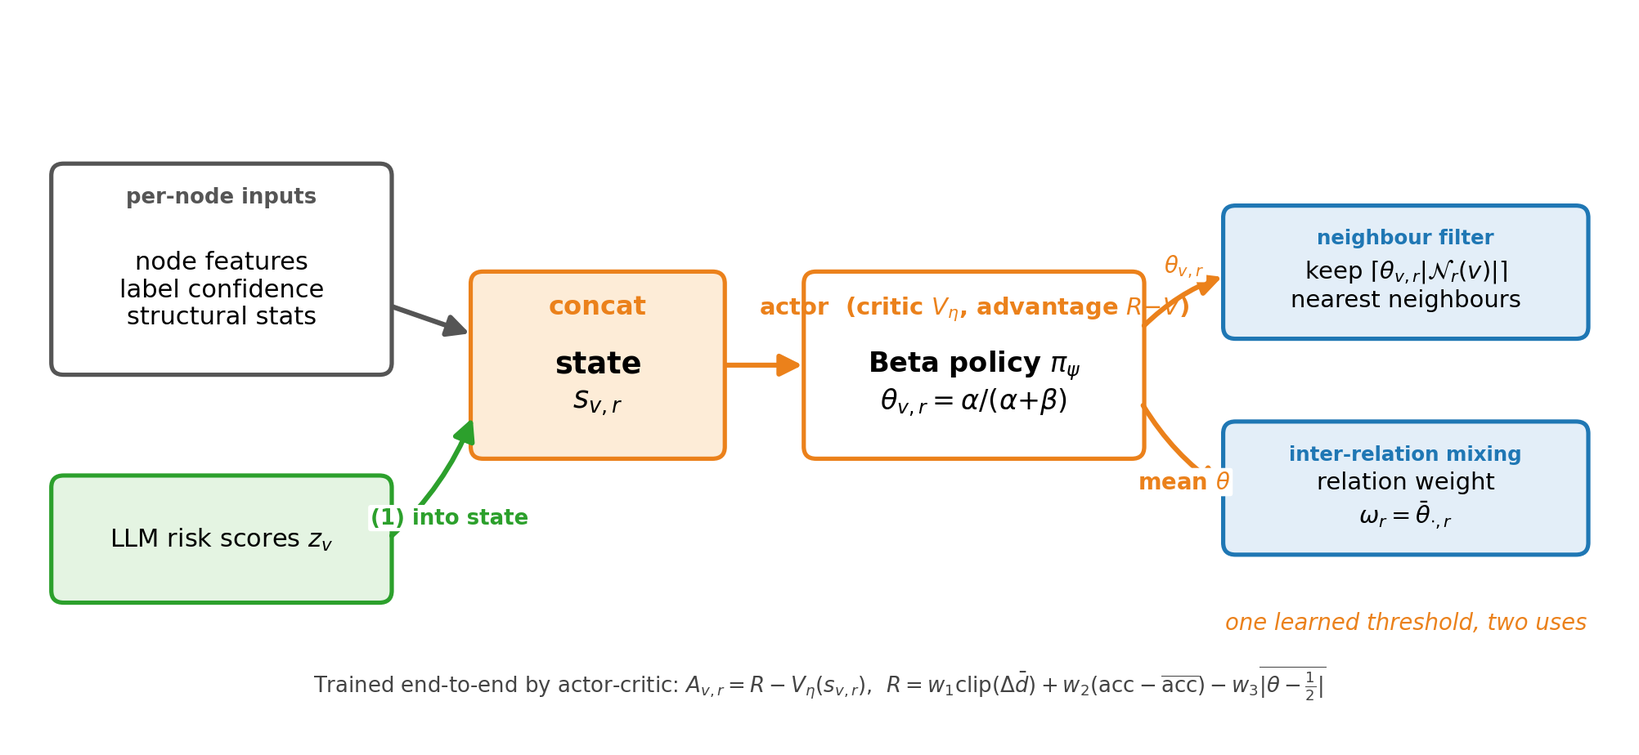
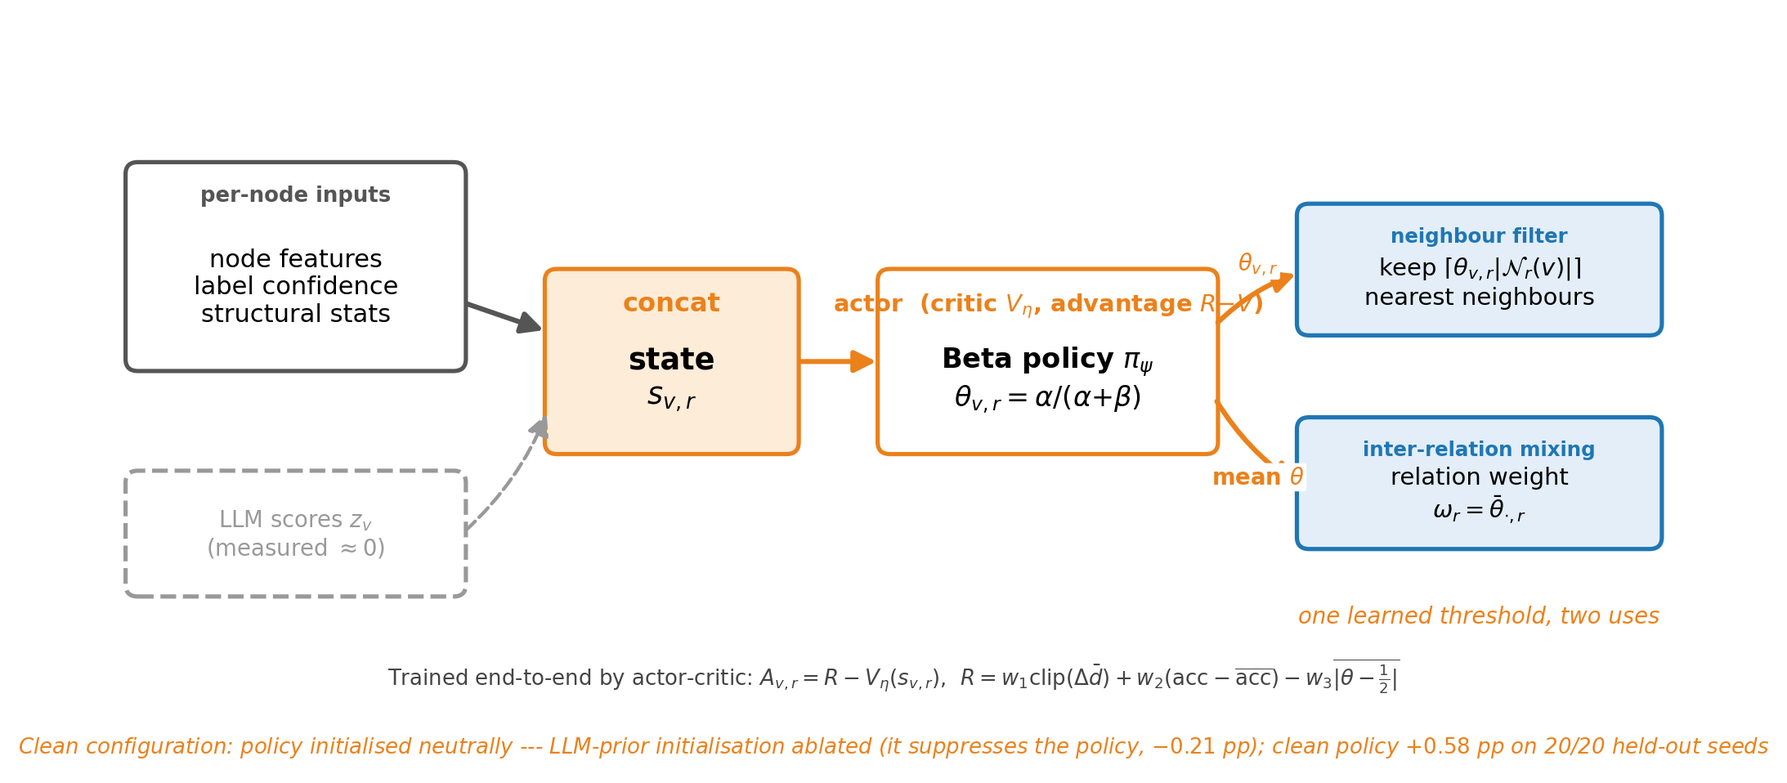
Regenerate architecture figures to final framing; add result plots
Architecture figures now match the paper's final story: pillar arrows
annotated with held-out-confirmed deltas (+1.97 semantic, +0.58 adaptive,
+2.70 full), scorer marked LLM-or-heuristic, and both ablated couplings
(LLM-prior init, scores-in-state) drawn dashed/annotated as measured-null.

Two new Results figures generated from the saved experiment JSONs:
- results_ablation.png: per-seed slope plot of the n=20 held-out cube
  (R1 -> R2' -> R3 -> R4'), deltas computed from data, 20/20 consistency visible
- results_doseresponse.png: text6 gain vs backbone strength across 9
  configurations with significance encoding and trend line

main.tex: figure captions updated to final framing; both plots inserted with
prose references (fig:ablation-seeds, fig:doseresponse).

Changed region(s): [[0.0, 0.1818, 0.99, 0.9697]]

diff --git a/papers/my_paper/extracted/main.tex b/papers/my_paper/extracted/main.tex
@@ -20,9 +20,9 @@
 %\correspondingauthor{bob.jones@university.edu}
 
 \setabstract{%
-Graph neural networks have become a standard substrate for fraud detection on multi-relation review graphs, but sophisticated fraudsters deliberately evade neighbourhood aggregation by camouflaging both node attributes and graph connections. Existing defences address the problem only partially: early reinforcement-learning approaches such as CARE-GNN employ heuristic bandits with limited per-node adaptability and no mechanism for external signal, while recent GNN-LLM integrations augment node features but lack a learned policy for dynamic relation weighting. To our knowledge, no prior work unifies structural, adaptive, and semantic reasoning in a single framework.
-We propose a three-pillar framework that integrates these three modes of reasoning. The structural pillar is a multi-relation CARE-GNN backbone. The adaptive pillar is the Camouflage-Aware Policy Network (CAPN), an actor-critic policy that replaces CARE-GNN's heuristic bandit with per-node, per-relation filtering thresholds learned from a rich state vector. The semantic pillar is an LLM component that injects structural-reasoning scores into the policy state and fraud-specific textual risk scores into the node features through a gated residual module that preserves feature dimensionality. The three pillars are trained under a single joint objective.
-On YelpChi, every headline claim is confirmed on twenty held-out seeds never used in tuning. The full framework outperforms its structural base by $+2.70$~pp (AUC $0.7909 \pm 0.0038$ vs.\ $0.7639 \pm 0.0016$; positive on all twenty seeds, $p<10^{-16}$). The pillar-wise attribution is complete and each pillar earns its place: the semantic pillar contributes $+1.97$~pp ($20/20$, $p<10^{-12}$), the adaptive pillar $+0.58$~pp ($20/20$, $p<10^{-4}$), and---critically---the two \emph{compose}: the learned policy adds a further $+0.74$~pp on top of the semantic signal ($19/20$, $p<10^{-6}$). Reaching this attribution required correcting our own design: the LLM-derived prior initialisation, intended as semantic-to-adaptive synergy, in fact \emph{suppresses} the policy, and only after de-confounding does the adaptive pillar's contribution emerge. On a high-variance host the adaptive effect is statistically undetectable ($+0.41$~pp, $p=0.56$ at thirty seeds on GraphConsis), a detectability boundary we report transparently. Two further studies establish the framework's generality: its semantic signal transfers to eight backbones at the identical label-scarce split, significantly improving six---including the benchmark-leading XGB-Graph (AUC $0.9106\!\to\!0.9177$)---and the whole framework attaches unchanged, as a backbone-agnostic wrapper, to GraphConsis, where its semantic pathway again delivers the largest gain ($+4.16$~pp) together with a $3.5\times$ variance reduction. Finally, we show the semantic signal's value lies in its six fraud-specific score dimensions rather than in the model that computes them: a zero-cost heuristic scorer is statistically indistinguishable from the LLM on every graph backbone, making the pillar deployable without any API dependence.
+  Graph neural networks have become a standard substrate for fraud detection on multi-relation review graphs, but sophisticated fraudsters deliberately evade neighbourhood aggregation by camouflaging both node attributes and graph connections. Existing defences address the problem only partially: early reinforcement-learning approaches such as CARE-GNN employ heuristic bandits with limited per-node adaptability and no mechanism for external signal, while recent GNN-LLM integrations augment node features but lack a learned policy for dynamic relation weighting. To our knowledge, no prior work unifies structural, adaptive, and semantic reasoning in a single framework.
+  We propose a three-pillar framework that integrates these three modes of reasoning. The structural pillar is a multi-relation CARE-GNN backbone. The adaptive pillar is the Camouflage-Aware Policy Network (CAPN), an actor-critic policy that replaces CARE-GNN's heuristic bandit with per-node, per-relation filtering thresholds learned from a rich state vector. The semantic pillar is an LLM component that injects structural-reasoning scores into the policy state and fraud-specific textual risk scores into the node features through a gated residual module that preserves feature dimensionality. The three pillars are trained under a single joint objective.
+  On YelpChi, every headline claim is confirmed on twenty held-out seeds never used in tuning. The full framework outperforms its structural base by $+2.70$~pp (AUC $0.7909 \pm 0.0038$ vs.\ $0.7639 \pm 0.0016$; positive on all twenty seeds, $p<10^{-16}$). The pillar-wise attribution is complete and each pillar earns its place: the semantic pillar contributes $+1.97$~pp ($20/20$, $p<10^{-12}$), the adaptive pillar $+0.58$~pp ($20/20$, $p<10^{-4}$), and---critically---the two \emph{compose}: the learned policy adds a further $+0.74$~pp on top of the semantic signal ($19/20$, $p<10^{-6}$). Reaching this attribution required correcting our own design: the LLM-derived prior initialisation, intended as semantic-to-adaptive synergy, in fact \emph{suppresses} the policy, and only after de-confounding does the adaptive pillar's contribution emerge. On a high-variance host the adaptive effect is statistically undetectable ($+0.41$~pp, $p=0.56$ at thirty seeds on GraphConsis), a detectability boundary we report transparently. Two further studies establish the framework's generality: its semantic signal transfers to eight backbones at the identical label-scarce split, significantly improving six---including the benchmark-leading XGB-Graph (AUC $0.9106\!\to\!0.9177$)---and the whole framework attaches unchanged, as a backbone-agnostic wrapper, to GraphConsis, where its semantic pathway again delivers the largest gain ($+4.16$~pp) together with a $3.5\times$ variance reduction. Finally, we show the semantic signal's value lies in its six fraud-specific score dimensions rather than in the model that computes them: a zero-cost heuristic scorer is statistically indistinguishable from the LLM on every graph backbone, making the pillar deployable without any API dependence.
 }
 
 \keywords{Graph neural networks; Fraud detection; Reinforcement learning; Large language models; Multi-relation graphs}
@@ -200,11 +200,16 @@ pillars connect; the rest of this section takes them one at a time.
 \begin{figure}[t]
 \centering
 \includegraphics[width=\linewidth]{architecture}
-\caption{The three-pillar framework. A multi-relation CARE-GNN backbone
-(\emph{structural}) is filtered by CAPN's per-node, per-relation thresholds
-(\emph{adaptive}); a cached large language model supplies fraud-risk scores that
-enter through two channels---into the policy state, and, as a gated residual,
-into the node features (\emph{semantic}).}
+\caption{The three-pillar framework, annotated with each pathway's held-out
+contribution (Section~\ref{sec:results}). A multi-relation CARE-GNN backbone
+(\emph{structural}) is filtered by the clean, neutrally-initialised CAPN policy
+(\emph{adaptive}, $+0.58$~pp); six cached fraud-specific text scores---from an
+LLM \emph{or} a zero-cost heuristic scorer, which perform indistinguishably on
+graph backbones---enter as a gated residual into the node features
+(\emph{semantic}, $+1.97$~pp). The dashed scores-to-policy-state channel and
+the LLM-prior initialisation are part of the original design but are measured
+to contribute nothing and to suppress the policy, respectively; the reported
+framework ablates both.}
 \label{fig:arch}
 \end{figure}
 
@@ -270,14 +275,17 @@ rather than once per relation (Figure~\ref{fig:capn}).
 \begin{figure}[t]
 \centering
 \includegraphics[width=\linewidth]{architecture_capn}
-\caption{The CAPN mechanism. A per-node state $s_{v,r}$---node features,
-label-predictor confidence, structural statistics, and the LLM risk scores
-$z_v$---is mapped by a per-relation Beta policy to a single threshold
+\caption{The CAPN mechanism (clean configuration). A per-node state
+$s_{v,r}$---node features, label-predictor confidence, and structural
+statistics---is mapped by a per-relation Beta policy to a single threshold
 $\theta_{v,r}$, trained end-to-end with an actor--critic objective. That one
 threshold is then used twice: to keep the
 $\lceil\theta_{v,r}|\mathcal{N}_r(v)|\rceil$ nearest neighbours, and, through its
 per-relation mean, to set the relation's weight $\omega_r$ in the
-inter-relation aggregation.}
+inter-relation aggregation. The optional LLM scores $z_v$ in the state (dashed)
+measure $\approx 0$ contribution, and the policy is initialised neutrally: the
+LLM-prior initialisation of our original design suppresses it
+(Section~\ref{sec:ablation}).}
 \label{fig:capn}
 \end{figure}
 
@@ -416,7 +424,21 @@ $p<10^{-16}$). Critically, the pillars \emph{compose}: on top of the semantic
 signal the learned policy adds a further $+0.74$~pp ($19/20$, $p<10^{-6}$), and
 on top of the policy the semantic signal adds $+2.12$~pp ($20/20$,
 $p<10^{-15}$). Every pillar, and both stacking directions, is individually
-significant under held-out evaluation.
+significant under held-out evaluation. Figure~\ref{fig:ablation-seeds} shows
+the per-seed picture behind those averages: all twenty held-out seeds rise
+almost in lockstep as the pillars are added, which is why the paired tests are
+so decisive despite the modest absolute deltas.
+
+\begin{figure}[t]
+\centering
+\includegraphics[width=\linewidth]{results_ablation}
+\caption{The held-out ablation, seed by seed. Each grey line is one of the
+twenty held-out seeds (100--119) evaluated under all four clean
+configurations; the bold line is the mean. Boxes give the consecutive paired
+deltas with the number of seeds improved. The near-parallel rise of every seed
+is the visual form of the paired $t$-tests in Table~\ref{tab:framework}.}
+\label{fig:ablation-seeds}
+\end{figure}
 
 \begin{table}[t]
 \centering
@@ -547,10 +569,26 @@ would expect once a high-capacity model already extracts most of what the raw
 features offer. The clearest trend is a dose--response: the weaker the backbone,
 the larger the lift (logistic regression $+2.29$, BWGNN-Homo $+1.66$) and the
 stronger the backbone, the smaller but still-significant it becomes
-(BWGNN-Hetero $+0.62$). The framework's semantic pillar is therefore not an
-architecture-bound component but a portable source of fraud signal the
-behavioural features do not already contain---evidence that the framework's
-strongest pathway generalises to any detector a practitioner already runs.
+(BWGNN-Hetero $+0.62$). Figure~\ref{fig:doseresponse} plots this relationship
+across all nine backbone configurations: the gain declines by roughly
+$1.3$~pp for every $+0.1$ of backbone AUC, yet remains positive---and usually
+significant---even at the strongest backbone we have. The framework's semantic
+pillar is therefore not an architecture-bound component but a portable source
+of fraud signal the behavioural features do not already contain---evidence
+that the framework's strongest pathway generalises to any detector a
+practitioner already runs.
+
+\begin{figure}[t]
+\centering
+\includegraphics[width=\linewidth]{results_doseresponse}
+\caption{Dose--response of the semantic signal. Each point is one backbone at
+the identical frozen split: horizontal position is its AUC \emph{without}
+text6, vertical position the AUC gain from adding text6 (filled = significant).
+The signal helps most where the backbone is weakest and stays positive
+everywhere; GraphConsis's large but non-significant point reflects that
+backbone's high seed variance (Section~\ref{sec:wrapper}).}
+\label{fig:doseresponse}
+\end{figure}
 
 One might ask whether the gain belongs to our gated injection
 (Eq.~\eqref{eq:gate}) or simply to the signal. On BWGNN-Hetero we compared both

diff --git a/papers/my_paper/make_architecture.py b/papers/my_paper/make_architecture.py
@@ -1,25 +1,26 @@
-"""Generate the paper's figures:
-  architecture.png       -- Fig 1, clean high-level 3-pillar overview
-  architecture_capn.png  -- Fig 2, CAPN mechanism breakdown
+"""Generate the paper's architecture figures (final framing):
+  architecture.png       -- Fig 1, 3-pillar overview + held-out-confirmed deltas
+  architecture_capn.png  -- Fig 2, CAPN mechanism (clean config: neutral init,
+                            z_v channel marked as measured-null)
 
     python papers/my_paper/make_architecture.py
 """
 from pathlib import Path
 
 import matplotlib.pyplot as plt
-from matplotlib.patches import FancyArrowPatch, FancyBboxPatch, Rectangle
+from matplotlib.patches import FancyArrowPatch, FancyBboxPatch
 
 DIR = Path(__file__).resolve().parent / "extracted"
 C_GNN, C_RL, C_LLM = "#1F77B4", "#EB811B", "#2CA02C"
 BG_GNN, BG_RL, BG_LLM = "#E3EEF8", "#FDECD7", "#E4F4E2"
-C_IN, C_OUT = "#555555", "#2B3A55"
+C_IN, C_OUT, C_NULL = "#555555", "#2B3A55", "#999999"
 
 
 def box(ax, x, y, w, h, text, *, edge, face="white", fs=11, bold=False,
-        header=None, tc="black"):
+        header=None, tc="black", ls="-"):
     ax.add_patch(FancyBboxPatch((x, y), w, h,
                  boxstyle="round,pad=0.03,rounding_size=0.10",
-                 lw=1.7, edgecolor=edge, facecolor=face))
+                 lw=1.7, edgecolor=edge, facecolor=face, linestyle=ls))
     ty = y + h / 2
     if header:
         ax.text(x + w / 2, y + h - 0.16, header, ha="center", va="top",
@@ -30,9 +31,9 @@ def box(ax, x, y, w, h, text, *, edge, face="white", fs=11, bold=False,
 
 
 def arrow(ax, x1, y1, x2, y2, *, color, lw=2.0, rad=0.0, label=None,
-          off=(0, 0.28), lc=None, fs=9):
+          off=(0, 0.28), lc=None, fs=9, ls="-"):
     ax.add_patch(FancyArrowPatch((x1, y1), (x2, y2), arrowstyle="-|>",
-                 mutation_scale=18, lw=lw, color=color,
+                 mutation_scale=18, lw=lw, color=color, linestyle=ls,
                  connectionstyle=f"arc3,rad={rad}"))
     if label:
         ax.text((x1 + x2) / 2 + off[0], (y1 + y2) / 2 + off[1], label,
@@ -43,10 +44,10 @@ def arrow(ax, x1, y1, x2, y2, *, color, lw=2.0, rad=0.0, label=None,
 
 
 # ====================================================================
-# FIG 1 — high-level overview (no crossing arrows)
+# FIG 1 — high-level overview, annotated with held-out-confirmed deltas
 # ====================================================================
-fig, ax = plt.subplots(figsize=(10.5, 5.6))
-ax.set_xlim(0, 11); ax.set_ylim(0, 6); ax.axis("off")
+fig, ax = plt.subplots(figsize=(10.5, 6.2))
+ax.set_xlim(0, 11); ax.set_ylim(-0.5, 6.6); ax.axis("off")
 
 # main horizontal pipeline
 box(ax, 0.35, 2.45, 2.45, 1.1, "Multi-relation\nreview graph", edge=C_IN, fs=11)
@@ -57,43 +58,62 @@ box(ax, 8.25, 2.45, 2.4, 1.1, "Fraud probability\n$\\hat{y}_v$",
 arrow(ax, 2.80, 3.0, 3.85, 3.0, color=C_IN)
 arrow(ax, 7.20, 3.0, 8.25, 3.0, color=C_OUT)
 
-# semantic pillar on top -> straight down into backbone
-box(ax, 3.55, 4.55, 3.95, 1.1,
-    "structural risk $+$ textual risk scores", edge=C_LLM, face=BG_LLM, fs=10.5,
-    header="Semantic pillar  (LLM, cached)")
-arrow(ax, 5.525, 4.55, 5.525, 3.70, color=C_LLM, lw=2.2,
-      label="scores $\\to$ policy state $+$ node features", off=(0, 0.0),
+# semantic pillar on top -> gated residual into node features (the live channel)
+box(ax, 3.30, 4.95, 4.45, 1.25,
+    "six fraud-specific text scores\n(LLM \\emph{or} zero-cost heuristic scorer)".replace("\\emph{or}", "or"),
+    edge=C_LLM, face=BG_LLM, fs=10.5,
+    header="Semantic pillar  (cached, scorer-agnostic)")
+arrow(ax, 5.525, 4.95, 5.525, 3.70, color=C_LLM, lw=2.2,
+      label="gated residual $\\to$ node features   ($+1.97$ pp)", off=(0, 0.0),
       fs=9)
 
-# adaptive pillar on bottom -> straight up into backbone
-box(ax, 3.55, 0.35, 3.95, 1.1, "actor-critic filtering policy",
+# adaptive pillar on bottom -> per-node thresholds (clean, neutral init)
+box(ax, 3.30, 0.35, 4.45, 1.25, "actor-critic filtering policy\n(neutral init)",
     edge=C_RL, face=BG_RL, fs=10.5, header="Adaptive pillar  (CAPN)")
-arrow(ax, 5.525, 1.45, 5.525, 2.30, color=C_RL, lw=2.2,
-      label="per-node, per-relation thresholds", off=(0, 0.0), fs=9)
+arrow(ax, 5.525, 1.60, 5.525, 2.30, color=C_RL, lw=2.2,
+      label="per-node, per-relation thresholds   ($+0.58$ pp)", off=(0, 0.0),
+      fs=9)
+
+# ablated coupling: z_v -> policy state (measured ~0), dashed, routed left of
+# the backbone but right of the input box (rad kept small to avoid overlap)
+arrow(ax, 3.30, 5.35, 3.30, 1.25, color=C_NULL, lw=1.4, rad=0.10, ls="--")
+ax.text(2.25, 4.42, "scores $\\to$ policy state\n(measured $\\approx 0$)",
+        ha="center", va="center", fontsize=8, color=C_NULL, style="italic",
+        bbox=dict(facecolor="white", edgecolor="none", boxstyle="round,pad=0.1"))
+
+# held-out verdict strip
+ax.text(5.5, -0.28,
+        "held-out confirmed (20 fresh seeds): semantic $+1.97$ pp ($20/20$) · "
+        "adaptive $+0.58$ pp ($20/20$) · compose $+0.74$ pp ($19/20$) · "
+        "full framework $+2.70$ pp ($p<10^{-16}$)",
+        ha="center", va="center", fontsize=9, color=C_OUT, fontweight="bold")
+ax.text(5.5, 6.45,
+        "ablated couplings (dashed / removed): LLM-prior init suppresses the "
+        "policy ($-0.21$ pp); scores-in-state $\\approx 0$",
+        ha="center", va="center", fontsize=8.5, color=C_NULL, style="italic")
 
 fig.savefig(DIR / "architecture.png", dpi=220, bbox_inches="tight",
             facecolor="white")
 plt.close(fig)
 
 # ====================================================================
-# FIG 2 — CAPN mechanism breakdown
+# FIG 2 — CAPN mechanism breakdown (clean configuration)
 # ====================================================================
-fig, ax = plt.subplots(figsize=(11.5, 5.2))
-ax.set_xlim(0, 13); ax.set_ylim(0, 6); ax.axis("off")
+fig, ax = plt.subplots(figsize=(11.5, 5.4))
+ax.set_xlim(0, 13); ax.set_ylim(-0.3, 6); ax.axis("off")
 
 # inputs to the state
 box(ax, 0.3, 3.05, 2.7, 1.7,
     "node features\nlabel confidence\nstructural stats", edge=C_IN, fs=10,
     header="per-node inputs")
-box(ax, 0.3, 1.15, 2.7, 1.0, "LLM risk scores $z_v$", edge=C_LLM,
-    face=BG_LLM, fs=10)
+box(ax, 0.3, 1.15, 2.7, 1.0, "LLM scores $z_v$\n(measured $\\approx 0$)",
+    edge=C_NULL, face="white", fs=9, ls="--", tc=C_NULL)
 
 # state
 box(ax, 3.7, 2.35, 2.0, 1.5, "state\n$s_{v,r}$", edge=C_RL, face=BG_RL,
     bold=True, fs=12, header="concat")
 arrow(ax, 3.0, 3.6, 3.7, 3.35, color=C_IN)
-arrow(ax, 3.0, 1.65, 3.7, 2.7, color=C_LLM, rad=0.12,
-      label="(1) into state", off=(0.15, -0.35), fs=8.5)
+arrow(ax, 3.0, 1.65, 3.7, 2.7, color=C_NULL, rad=0.12, ls="--", lw=1.4)
 
 # policy (actor + critic)
 box(ax, 6.4, 2.35, 2.7, 1.5,
@@ -118,6 +138,11 @@ ax.text(6.5, 0.45,
         "$A_{v,r}=R-V_\\eta(s_{v,r})$,  "
         "$R=w_1\\mathrm{clip}(\\Delta\\bar d)+w_2(\\mathrm{acc}-\\overline{\\mathrm{acc}})-w_3\\overline{|\\theta-\\frac{1}{2}|}$",
         ha="center", va="center", fontsize=8.5, color="#444444")
+ax.text(6.5, -0.15,
+        "Clean configuration: policy initialised neutrally --- LLM-prior "
+        "initialisation ablated (it suppresses the policy, $-0.21$ pp); "
+        "clean policy $+0.58$ pp on 20/20 held-out seeds",
+        ha="center", va="center", fontsize=8.5, color=C_RL, style="italic")
 
 fig.savefig(DIR / "architecture_capn.png", dpi=220, bbox_inches="tight",
             facecolor="white")

diff --git a/papers/my_paper/make_result_figures.py b/papers/my_paper/make_result_figures.py
@@ -1,0 +1,124 @@
+"""Generate the Results-section figures from the saved experiment JSONs:
+  results_ablation.png     -- per-seed slope plot of the held-out ablation cube
+  results_doseresponse.png -- text6 delta vs backbone strength (8 backbones)
+
+    python papers/my_paper/make_result_figures.py
+(run from repo root so results/experiments/ resolves)
+"""
+import json
+from pathlib import Path
+
+import matplotlib.pyplot as plt
+import numpy as np
+
+ROOT = Path(__file__).resolve().parents[2]
+OUT = Path(__file__).resolve().parent / "extracted"
+RES = ROOT / "results" / "experiments"
+
+C_GNN, C_RL, C_LLM, C_OUT = "#1F77B4", "#EB811B", "#2CA02C", "#2B3A55"
+
+
+def load(name):
+    with open(RES / name, encoding="utf-8") as f:
+        return json.load(f)
+
+
+# ====================================================================
+# FIG A — per-seed slope plot, n=20 held-out ablation cube
+# ====================================================================
+seeds = list(range(100, 120))
+r1 = {r["seed"]: r["auc"] for r in load("r1_holdout20.json")["per_seed"]}
+conf2 = load("rl_clean_confirmation_n20.json")
+r2 = dict(zip(conf2["seeds"], conf2["r2_no_priors_auc"]))
+r3 = {r["seed"]: r["auc"] for r in load("r3_holdout20.json")["per_seed"]}
+r4 = dict(zip(seeds, load("r4_clean_confirmation_n20.json")["r4_auc"]))
+
+configs = ["R1\nstructural", "R2$'$\n+adaptive", "R3\n+semantic", "R4$'$\nfull"]
+data = np.array([[r1[s], r2[s], r3[s], r4[s]] for s in seeds])  # (20, 4)
+
+fig, ax = plt.subplots(figsize=(7.2, 4.6))
+x = np.arange(4)
+for row in data:
+    ax.plot(x, row, color="#B0B8C4", lw=0.9, alpha=0.75, zorder=1)
+    ax.scatter(x, row, s=10, color="#B0B8C4", alpha=0.75, zorder=1)
+mean = data.mean(0)
+ax.plot(x, mean, color=C_OUT, lw=3.0, marker="o", ms=8, zorder=3,
+        label="mean over 20 held-out seeds")
+for xi, m, c in zip(x, mean, [C_GNN, C_RL, C_LLM, C_OUT]):
+    ax.scatter([xi], [m], s=90, color=c, zorder=4)
+
+# annotate the consecutive paired deltas, computed from the data itself
+ann = []
+for i in range(3):
+    d = data[:, i + 1] - data[:, i]
+    ann.append((f"$+{d.mean() * 100:.2f}$ pp\n${int((d > 0).sum())}/20$",
+                i + 0.5))
+for (txt, xp), ym in zip(ann, (mean[:-1] + mean[1:]) / 2):
+    ax.annotate(txt, xy=(xp, ym), fontsize=8.5, ha="center", va="center",
+                color="#444444",
+                bbox=dict(facecolor="white", edgecolor="#CCCCCC",
+                          boxstyle="round,pad=0.25"))
+ax.text(3.0, data[:, 0].min() + 0.0005,
+        "full vs. base: $+2.70$ pp\n$20/20$, $p<10^{-16}$",
+        ha="center", fontsize=9, color=C_OUT, fontweight="bold")
+
+ax.set_xticks(x); ax.set_xticklabels(configs, fontsize=10)
+ax.set_ylabel("test AUC (val-selected checkpoint)", fontsize=10)
+ax.tick_params(axis="y", labelsize=9)
+ax.spines[["top", "right"]].set_visible(False)
+ax.legend(loc="upper left", fontsize=9, frameon=False)
+fig.tight_layout()
+fig.savefig(OUT / "results_ablation.png", dpi=220, bbox_inches="tight",
+            facecolor="white")
+plt.close(fig)
+
+# ====================================================================
+# FIG B — dose-response: text6 delta vs backbone strength
+# ====================================================================
+# (backbone, raw AUC, text6 delta pp, significant?) — numbers from
+# tabular_baselines / xgb_graph_table / bwgnn_table / graphconsis_table /
+# yelp_corrected_n5_summary; identical frozen 25/15/60 split.
+points = [
+    ("LR",           0.7694, 2.29, True),
+    ("MLP",          0.8205, 0.78, False),
+    ("HistGBM",      0.8620, 1.18, True),
+    ("XGBoost",      0.8541, 2.42, True),
+    ("XGB-Graph",    0.9106, 0.70, True),
+    ("CARE-GNN",     0.7648, 1.69, True),
+    ("BWGNN-Homo",   0.8252, 1.66, True),
+    ("BWGNN-Hetero", 0.8879, 0.62, True),
+    ("GraphConsis",  0.7840, 4.16, False),
+]
+
+fig, ax = plt.subplots(figsize=(7.2, 4.6))
+xs = np.array([p[1] for p in points]); ys = np.array([p[2] for p in points])
+for name, xv, yv, sig in points:
+    ax.scatter([xv], [yv], s=95, zorder=3,
+               facecolor=C_LLM if sig else "white",
+               edgecolor=C_LLM, linewidth=1.8)
+    dy = 0.22 if name != "XGBoost" else -0.38
+    ha = "center"
+    ax.annotate(name, (xv, yv), xytext=(0, 14 if dy > 0 else -20),
+                textcoords="offset points", ha=ha, fontsize=9)
+
+# least-squares trend line
+b, a = np.polyfit(xs, ys, 1)
+xx = np.linspace(xs.min() - 0.01, xs.max() + 0.01, 50)
+ax.plot(xx, a + b * xx, color="#888888", lw=1.6, ls="--", zorder=2)
+ax.text(0.895, 3.4, f"trend: {b / 10:.1f} pp per\n$+0.1$ AUC of backbone",
+        fontsize=9, color="#666666", ha="center")
+
+ax.scatter([], [], s=95, facecolor=C_LLM, edgecolor=C_LLM, label="significant")
+ax.scatter([], [], s=95, facecolor="white", edgecolor=C_LLM,
+           label="not significant")
+ax.legend(loc="upper right", fontsize=9, frameon=False)
+ax.set_xlabel("backbone AUC without the semantic signal", fontsize=10)
+ax.set_ylabel("text6 gain (AUC pp)", fontsize=10)
+ax.tick_params(labelsize=9)
+ax.spines[["top", "right"]].set_visible(False)
+ax.axhline(0, color="#DDDDDD", lw=1, zorder=0)
+fig.tight_layout()
+fig.savefig(OUT / "results_doseresponse.png", dpi=220, bbox_inches="tight",
+            facecolor="white")
+plt.close(fig)
+print(f"Wrote: {OUT/'results_ablation.png'} and {OUT/'results_doseresponse.png'}")
